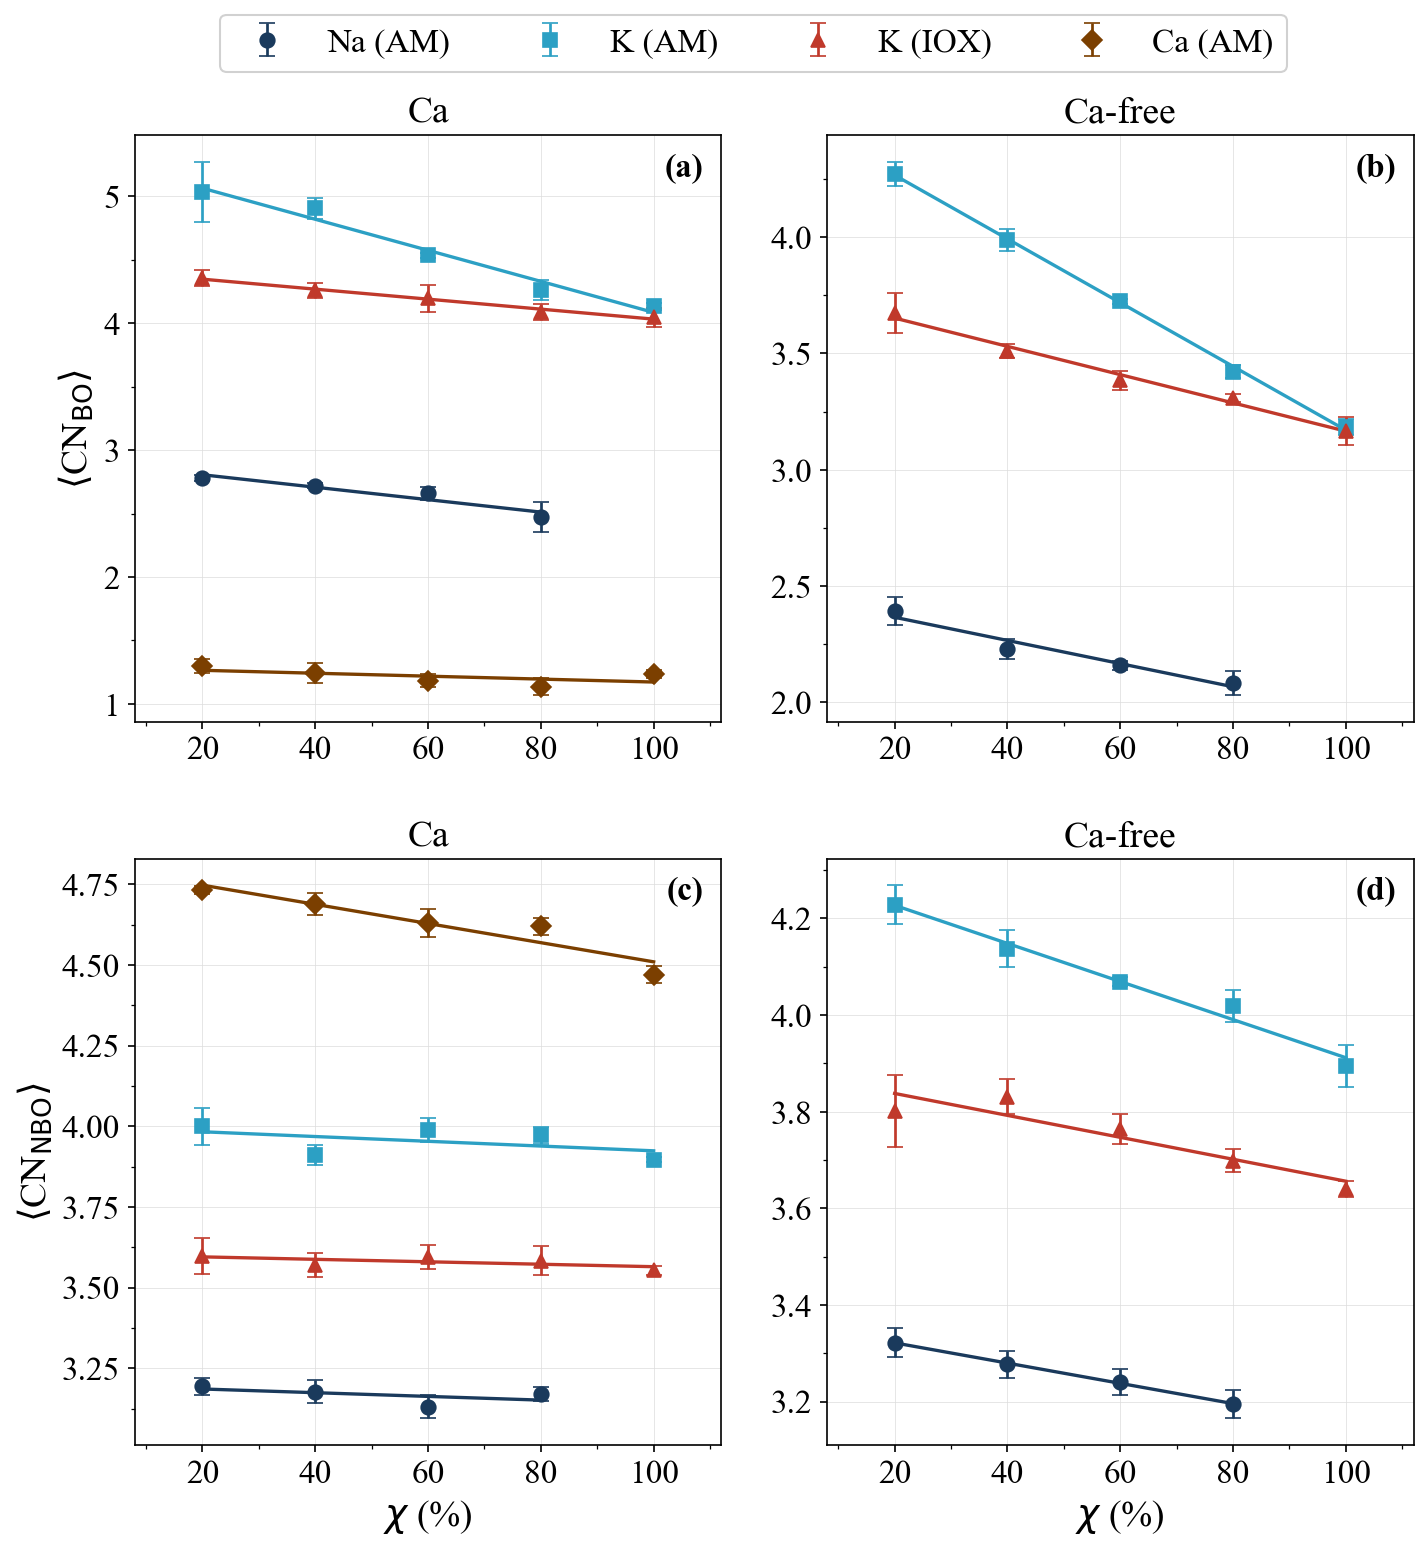
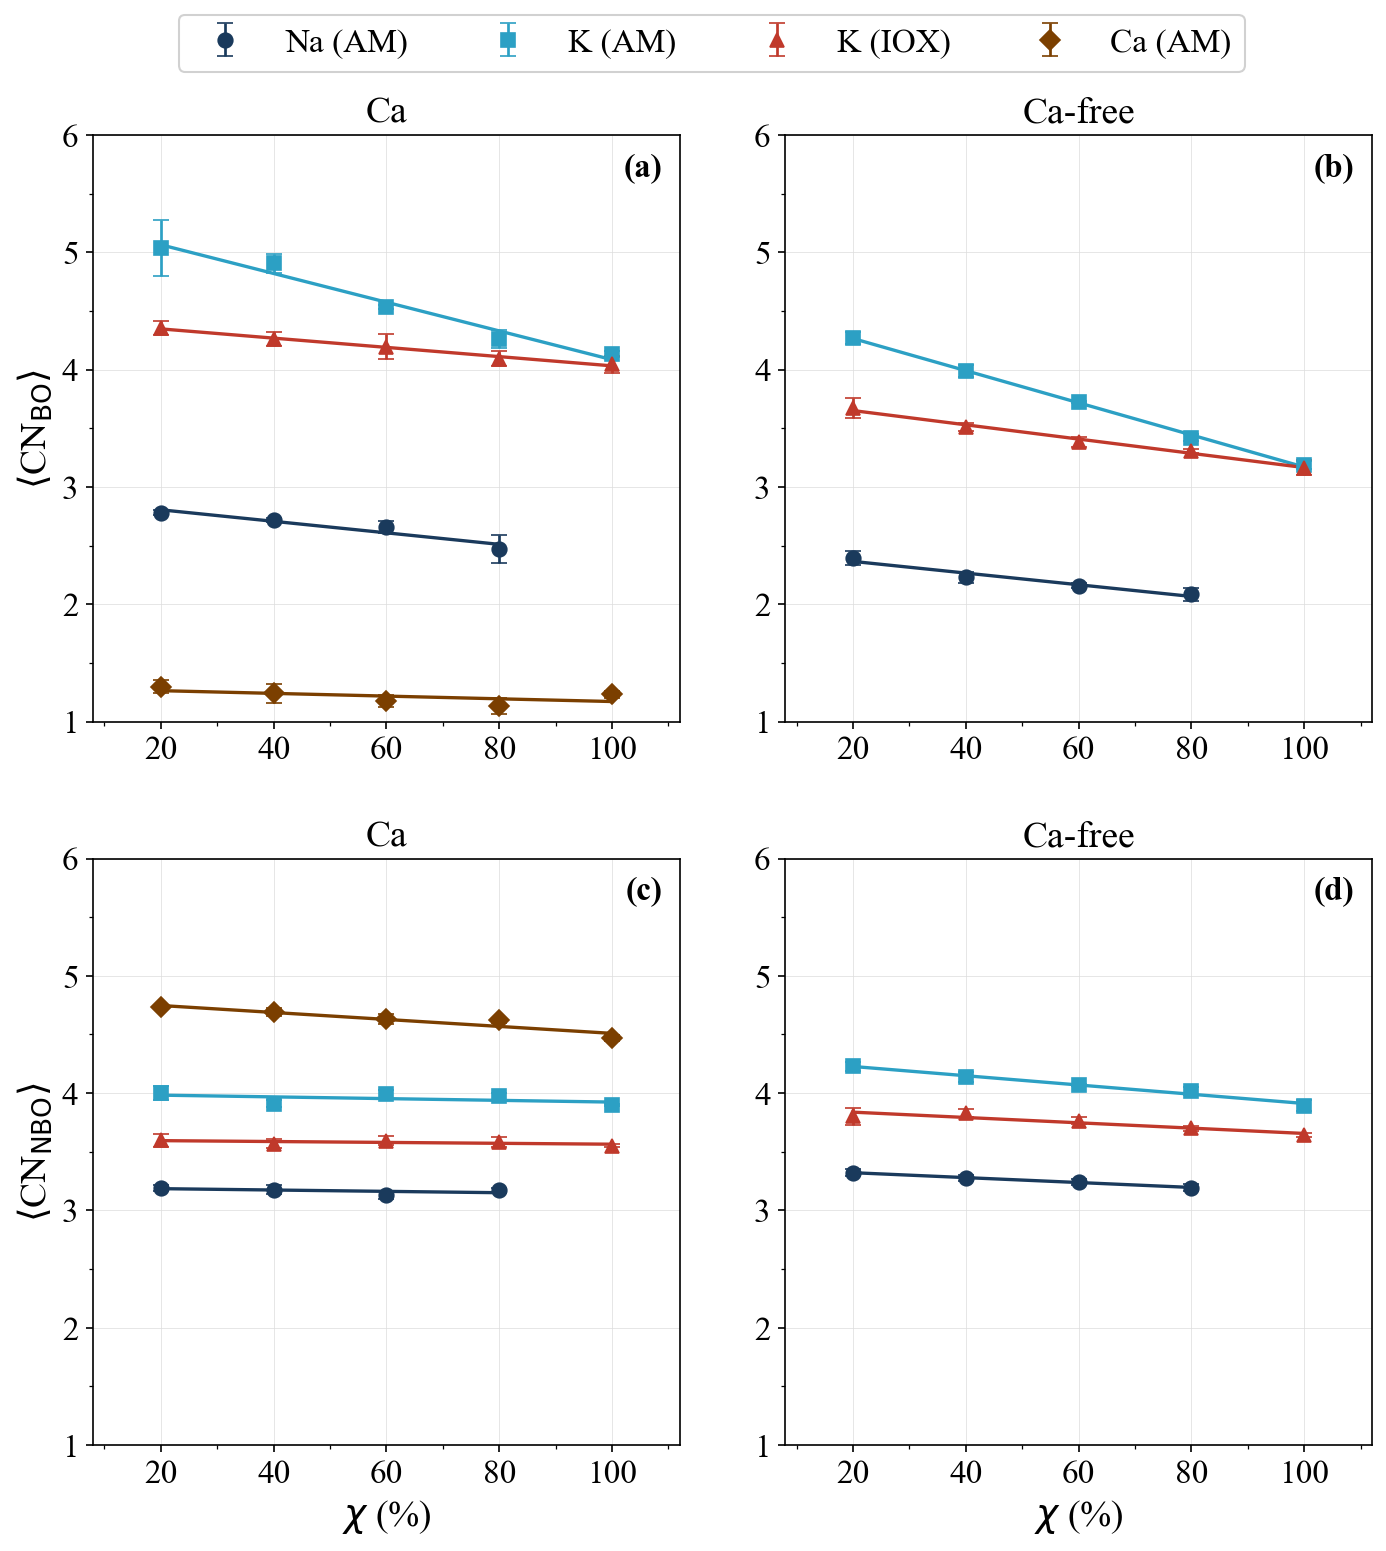
fig_bo_nbo_av_vs_chi: common y range (1-6) in the four panels

diff --git a/COMPARISON/BO_NBO/fig_bo_nbo_av_vs_chi.py b/COMPARISON/BO_NBO/fig_bo_nbo_av_vs_chi.py
@@ -153,6 +153,7 @@ for row in (0, 1):
             xf = np.linspace(CHI[ok].min(), CHI[ok].max(), 200)
             ax.plot(xf, slope * xf + icpt, color=color, lw=1.6, label="_nolegend_", zorder=2)
         ax.set_xlim(8, 112)
+        ax.set_ylim(1, 6)
         ax.xaxis.set_major_locator(ticker.MultipleLocator(20))
         ax.xaxis.set_minor_locator(ticker.AutoMinorLocator(2))
         ax.yaxis.set_minor_locator(ticker.AutoMinorLocator(2))
